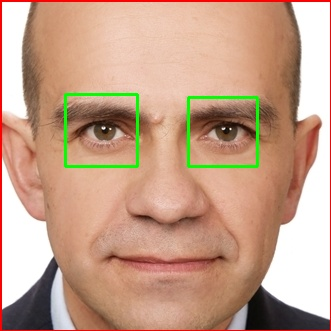
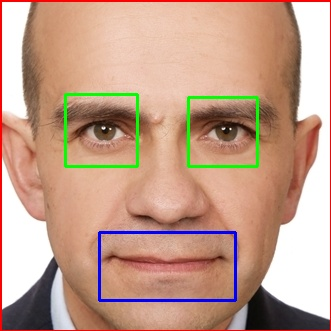
Add mouth detection

Changed region(s): [[0.2719, 0.6949, 0.7251, 0.9366]]

diff --git a/FaceDetection/Models/Model.cs b/FaceDetection/Models/Model.cs
@@ -49,24 +49,60 @@ namespace FaceDetection
 
         public void CzaryMary()
         {
-            //tutaj czarujemy ze zdjęciem photos[index]
-            CascadeClassifier haarFace = new CascadeClassifier("haarcascade_frontalface_default.xml");
-            CascadeClassifier haarEyes = new CascadeClassifier("haarcascade_eye.xml");
-
-            Image<Bgr, Byte> imageCV = new Image<Bgr, byte>(photos[index].Btm);
-            Mat mat = imageCV.Mat;
-            var faces = haarFace.DetectMultiScale(mat, 1.1, 10, new Size(20, 20));
             MCvScalar RED = new MCvScalar(0, 0, 255);
             MCvScalar GREEN = new MCvScalar(0, 255, 0);
+            MCvScalar BLUE = new MCvScalar(255, 0, 0);
+
+            //klasyfikatory
+            CascadeClassifier haarFace = new CascadeClassifier("haarcascade_frontalface_default.xml");
+            CascadeClassifier haarEyes = new CascadeClassifier("haarcascade_eye.xml");
+            CascadeClassifier haarMouth = new CascadeClassifier("haarcascade_smile.xml");
+
+            //tutaj bitmapa jest konwertowana na obiekt Image z opencv
+            Image<Bgr, Byte> imageCV = new Image<Bgr, byte>(photos[index].Btm);
+
+            // faces to jest kolekcja rectangli z twarzami, czyli współrzędne wszystkich twarz znalezionych na zdjęciu
+            var faces = haarFace.DetectMultiScale(imageCV, 1.1, 10, new Size(20, 20));
             foreach (var face in faces)
             {
-                //Console.WriteLine($"{face.Left} : {face.Top} \n {face.Width}x{face.Height}");
+                // to niżej po prostu rysuje kwadrat na prostokącie z twarzą
                 CvInvoke.Rectangle(imageCV, face, RED, 2);
+
+                //obrazek jest zawężany tylko do mordy, a potem w tym obszarze szuka oczu no i rysuje na nich zielone prostokąty
                 imageCV.ROI = face;
                 var eyes = haarEyes.DetectMultiScale(imageCV, 1.1, 10, new Size(20, 20));
-                foreach(var eye in eyes)
+                var smiles = haarMouth.DetectMultiScale(imageCV, 1.1, 20, new Size(20, 20));
+
+                var imageparts = new List<Image<Bgr, byte>>();
+
+                int i = 1;
+                foreach (var eye in eyes.Reverse())
                 {
+                    if (i > 2) break;
+                    var xd = eye;
                     CvInvoke.Rectangle(imageCV, eye, GREEN, 2);
+
+                    xd.X += face.X;
+                    xd.Y += face.Y;
+
+                    imageCV.ROI = xd;
+
+                    var ziomek = imageCV.HoughCircles(new Bgr(), new Bgr(), 60, 60);
+                    ziomek.Save(@"../../Changed Photos/chuj.jpeg");
+
+                    imageCV.Save(@"../../Changed Photos/" + photos[index].FileName + @"_eye" +i +".jpeg");
+
+                    imageCV.ROI = face;
+
+                    i++;
+
+                }
+                i = 1;
+                foreach (var smile in smiles)
+                {
+                    if (i > 1) break;
+                    CvInvoke.Rectangle(imageCV, smile, BLUE, 2);
+                    i++;
                 }
                 imageCV.Save(@"../../Changed Photos/" + photos[index].FileName + @"_changed.jpeg");
             }
